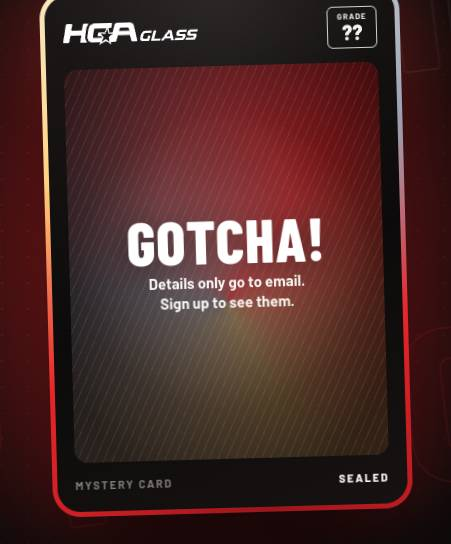
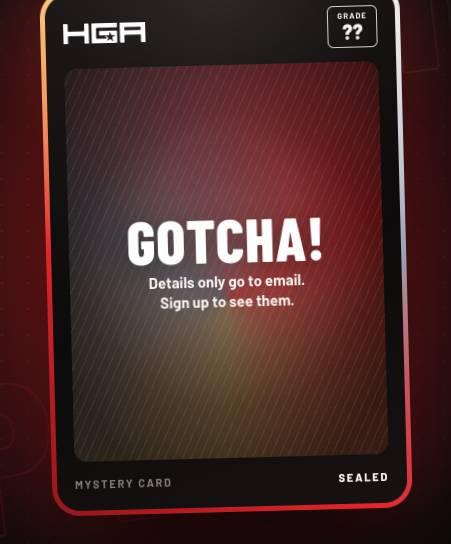
removed glass and text

diff --git a/index.html b/index.html
@@ -70,8 +70,6 @@ img{display:block;max-width:100%}
 @keyframes mq{to{transform:translateX(-50%)}}
 .hero-grid{display:grid;grid-template-columns:minmax(0,1.2fr) minmax(0,.8fr);gap:clamp(32px,5vw,80px);align-items:center}
 
-.kicker{display:inline-flex;align-items:center;gap:12px;margin:0 0 22px;font-size:12px;font-weight:700;letter-spacing:.22em;text-transform:uppercase;color:var(--hot)}
-.kicker::before{content:"";width:34px;height:2px;background:var(--red)}
 h1{margin:0;font-weight:800;font-size:clamp(32px,calc(3.5vw + 12px),70px);line-height:.96;letter-spacing:-.04em;text-wrap:balance}
 h1 .w{display:inline-block;overflow:hidden;vertical-align:bottom;padding-bottom:.06em;margin-bottom:-.06em}
 h1 .w>span{display:inline-block;transform:translateY(105%);animation:rise .9s var(--ease) forwards;animation-delay:calc(var(--d) * 70ms + 200ms)}
@@ -121,7 +119,7 @@ h1 .hl{background:linear-gradient(100deg,#ff7a74 0%,#E62429 35%,#ffb3ae 50%,#E62
 .card-in{position:relative;height:100%;border-radius:23px;overflow:hidden;display:grid;grid-template-rows:auto 1fr auto;gap:14px;padding:18px;
   background:radial-gradient(ellipse 80% 50% at 50% 0%,rgba(255,255,255,.08),transparent 60%),linear-gradient(160deg,#1d1818,#0c0a0a 55%,#171212)}
 .card-top{display:flex;align-items:center;justify-content:space-between}
-.card-top img{height:22px;width:auto}
+.card-top img{height:20px;width:auto}
 .card-top .gr{display:grid;place-items:center;padding:5px 9px;border:1.5px solid rgba(255,255,255,.8);border-radius:6px;line-height:1}
 .card-top .gr small{font-size:8px;font-weight:700;letter-spacing:.12em}
 .card-top .gr b{font-family:var(--cond);font-size:22px}
@@ -156,7 +154,7 @@ footer{position:relative;border-top:1px solid var(--line);padding:26px 0 max(26p
 .social svg{width:16px;height:16px}
 .legal{display:flex;flex-wrap:wrap;gap:6px 16px;font-size:13px;color:var(--muted)}
 .foot-left{display:flex;flex-direction:column;gap:16px}
-.powered{margin:0;display:inline-flex;align-items:center;gap:18px;font-size:12px;font-weight:700;letter-spacing:.24em;text-transform:uppercase;color:var(--text-2);text-decoration:none}
+.powered{margin:0;white-space:nowrap;display:inline-flex;align-items:center;gap:18px;font-size:12px;font-weight:700;letter-spacing:.24em;text-transform:uppercase;color:var(--text-2);text-decoration:none}
 .uc{display:inline-flex;align-items:center;gap:.08em;font-weight:800;font-size:25px;line-height:1;letter-spacing:.01em;color:#fff}
 .uc-u{display:inline-grid;place-items:center;width:1.25em;height:1.25em;margin-right:.1em;border:2.5px solid #6f9bb8;border-radius:.3em;color:#6f9bb8;font-size:.92em}
 .uc-e{display:inline-block;width:.56em;height:.72em;margin:0 .04em;background:linear-gradient(currentColor,currentColor) 0 0/100% 20% no-repeat,linear-gradient(currentColor,currentColor) 0 50%/82% 20% no-repeat,linear-gradient(currentColor,currentColor) 0 100%/100% 20% no-repeat}
@@ -170,21 +168,31 @@ footer{position:relative;border-top:1px solid var(--line);padding:26px 0 max(26p
 
 /* ---------- Responsive ---------- */
 @media (max-width:960px){
-  .hero{padding:96px 0 48px}
-  .hero-grid{grid-template-columns:1fr;gap:36px}
+  .hero{min-height:0;padding:104px 0 56px}
+  .hero-grid{grid-template-columns:1fr;gap:0;justify-items:center;text-align:center}
   .copy{display:contents}
-  .kicker{order:1}h1{order:2}.lede{order:3}.stage{order:4}.join{order:5}.fine{order:6}
+  h1{order:2;max-width:640px;font-size:clamp(27px,8.6vw,54px)}
+  .lede{order:3;margin:18px auto 0;max-width:460px}
+  .stage{order:4;margin-top:36px}
+  .join{order:5;width:100%;max-width:460px;margin:24px auto 0}
+  .fine{order:6;max-width:460px;margin:14px auto 0;text-align:center}
   .card{--w:clamp(230px,62vw,300px)}
-  h1{font-size:clamp(27px,8.6vw,54px)}
   .marquee.m1{top:8%}.marquee.m2{top:56%}
+  .foot-row{flex-direction:column;align-items:center;text-align:center}
+  .foot-left{align-items:center}
+  .social,.legal{justify-content:center}
 }
 @media (max-width:560px){
-  .bar .wrap{height:64px}
-  .bar .logo img{height:28px}
-  .live{display:none}
+  .bar .wrap{height:auto;justify-content:center;padding-top:18px;padding-bottom:12px}
+  .bar .logo img{height:40px}
+  .bar .right{display:none}
+  .hero{padding-top:112px}
   .field{flex-direction:column;padding:8px}
   .go{width:100%}
-  .foot-row{flex-direction:column;align-items:flex-start}
+}
+@media (max-width:380px){
+  .powered{gap:12px;letter-spacing:.16em;font-size:11px}
+  .uc{font-size:22px}
 }
 @media (prefers-reduced-motion:reduce){
   *,*::before,*::after{animation:none!important;transition:none!important}
@@ -212,7 +220,6 @@ footer{position:relative;border-top:1px solid var(--line);padding:26px 0 max(26p
 
     <div class="wrap hero-grid">
       <div class="copy">
-        <p class="kicker in" style="--i:0">HGA &middot; Giveaway</p>
         <h1 id="title"><span class="w"><span style="--d:0">Something</span></span> <span class="w"><span class="hl" style="--d:1">Innovative</span></span> <span class="w"><span class="hl" style="--d:2">And</span></span> <span class="w"><span class="hl" style="--d:3">Unique</span></span> <span class="w"><span style="--d:4">Is</span></span> <span class="w"><span style="--d:5">Coming</span></span> <span class="w"><span style="--d:6">Soon.</span></span></h1>
         <p class="lede in" style="--i:2">An HGA graded card valued up to <span class="gold">$4,999</span> is up for grabs. <b>Details are coming by email.</b></p>
 
@@ -236,7 +243,7 @@ footer{position:relative;border-top:1px solid var(--line);padding:26px 0 max(26p
           <div class="bob">
             <div class="card" id="card">
               <div class="card-in">
-                <div class="card-top"><img src="./assets/hga-glass.svg" alt="HGA Glass" width="96" height="16"><span class="gr" aria-label="Grade unknown"><small>GRADE</small><b>??</b></span></div>
+                <div class="card-top"><img src="./assets/hga-mark.svg" alt="HGA" width="82" height="20"><span class="gr" aria-label="Grade unknown"><small>GRADE</small><b>??</b></span></div>
                 <div class="window" id="win">
                   <div class="prize" aria-live="polite">
                     <span class="big">GOTCHA!</span>
